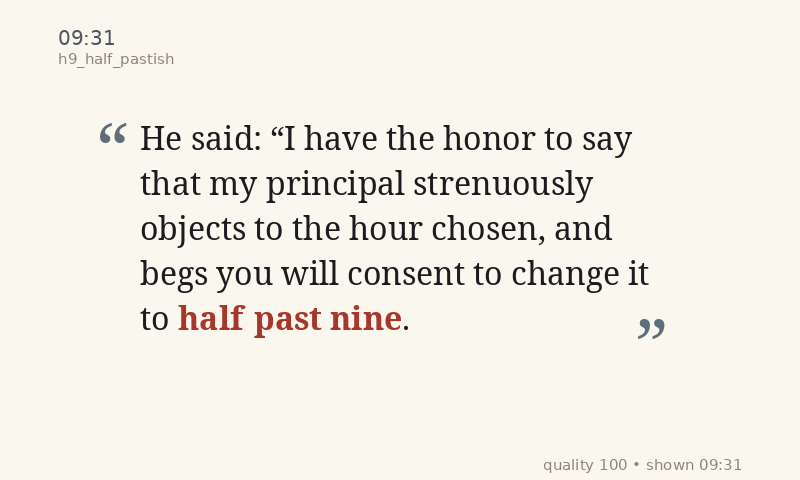
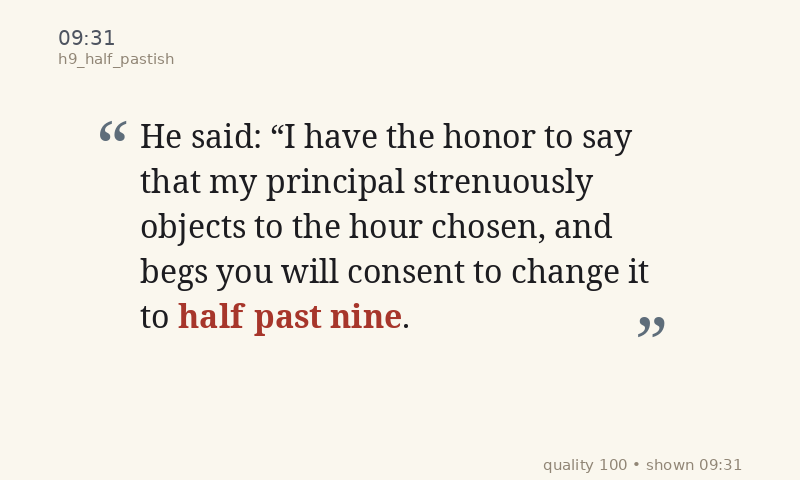
Improve attribution styling in renderer

diff --git a/render_quote.py b/render_quote.py
@@ -151,6 +151,7 @@ def render(time_str: str, quote_row: dict, width: int, height: int) -> Image.Ima
     time_font = load_font(META_FONT_CANDIDATES, size=20)
     debug_font = load_font(META_FONT_CANDIDATES, size=15)
     attribution_font = load_font(META_FONT_CANDIDATES, size=18)
+    attribution_title_font = load_font(META_FONT_CANDIDATES, size=16)
     ornament_font = load_font(QUOTE_FONT_REGULAR_CANDIDATES, size=72)
 
     column_x = (width - QUOTE_COLUMN_WIDTH) // 2
@@ -165,16 +166,17 @@ def render(time_str: str, quote_row: dict, width: int, height: int) -> Image.Ima
     )
     quote_block_height = len(wrapped_quote) * line_height
 
-    attribution_parts = []
-    if quote_row.get('author'):
-        attribution_parts.append(quote_row['author'])
-    if quote_row.get('title'):
-        attribution_parts.append(quote_row['title'])
-    attribution = " — ".join(attribution_parts) if attribution_parts else None
-    attrib_lines = wrap_text(draw, attribution, attribution_font, QUOTE_COLUMN_WIDTH)[:2] if attribution else []
-    attrib_height = len(attrib_lines) * 22
+    author_text = quote_row.get('author') or None
+    title_text = quote_row.get('title') or None
+    author_lines = wrap_text(draw, author_text, attribution_font, QUOTE_COLUMN_WIDTH)[:1] if author_text else []
+    title_lines = wrap_text(draw, title_text, attribution_title_font, QUOTE_COLUMN_WIDTH - 18)[:2] if title_text else []
+    attrib_height = 0
+    if author_lines:
+        attrib_height += 24
+    if title_lines:
+        attrib_height += len(title_lines) * 20
 
-    block_height = quote_block_height + 24 + attrib_height
+    block_height = quote_block_height + 28 + attrib_height
     quote_top = max(96, (height - block_height) // 2)
 
     draw.text((SIDE_MARGIN, TOP_MARGIN), time_str, font=time_font, fill=SUBTLE)
@@ -200,12 +202,14 @@ def render(time_str: str, quote_row: dict, width: int, height: int) -> Image.Ima
     closing_width = closing_bbox[2] - closing_bbox[0]
     draw.text((column_x + QUOTE_COLUMN_WIDTH - closing_width + 8, quote_end_y - 6), "”", font=ornament_font, fill=ORNAMENT)
 
-    if attrib_lines:
-        y += 18
-        for idx, line in enumerate(attrib_lines):
-            prefix = "— " if idx == 0 else "  "
-            draw.text((column_x, y), prefix + line, font=attribution_font, fill=SUBTLE)
-            y += 22
+    if author_lines or title_lines:
+        y += 20
+        if author_lines:
+            draw.text((column_x, y), f"— {author_lines[0]}", font=attribution_font, fill=SUBTLE)
+            y += 24
+        for line in title_lines:
+            draw.text((column_x + 18, y), line, font=attribution_title_font, fill=FAINT)
+            y += 20
 
     footer_parts = []
     if quote_row.get('used_fallback'):
